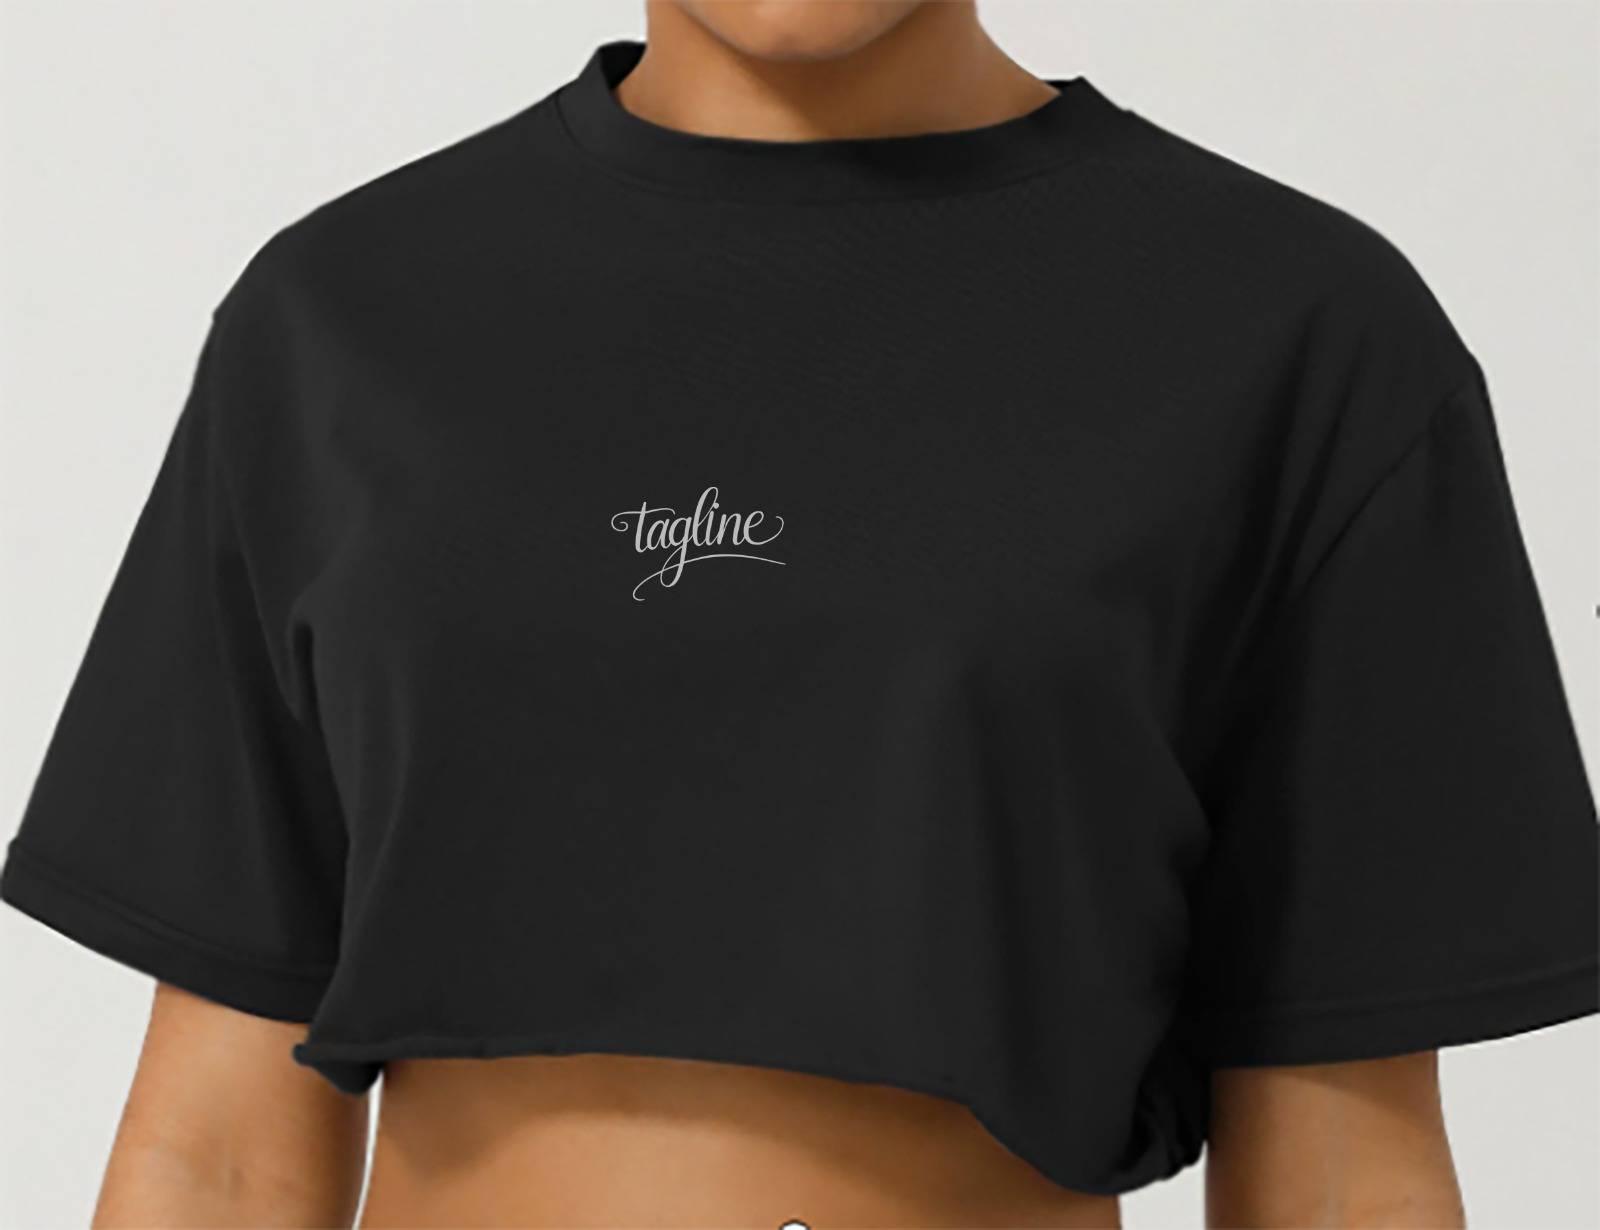
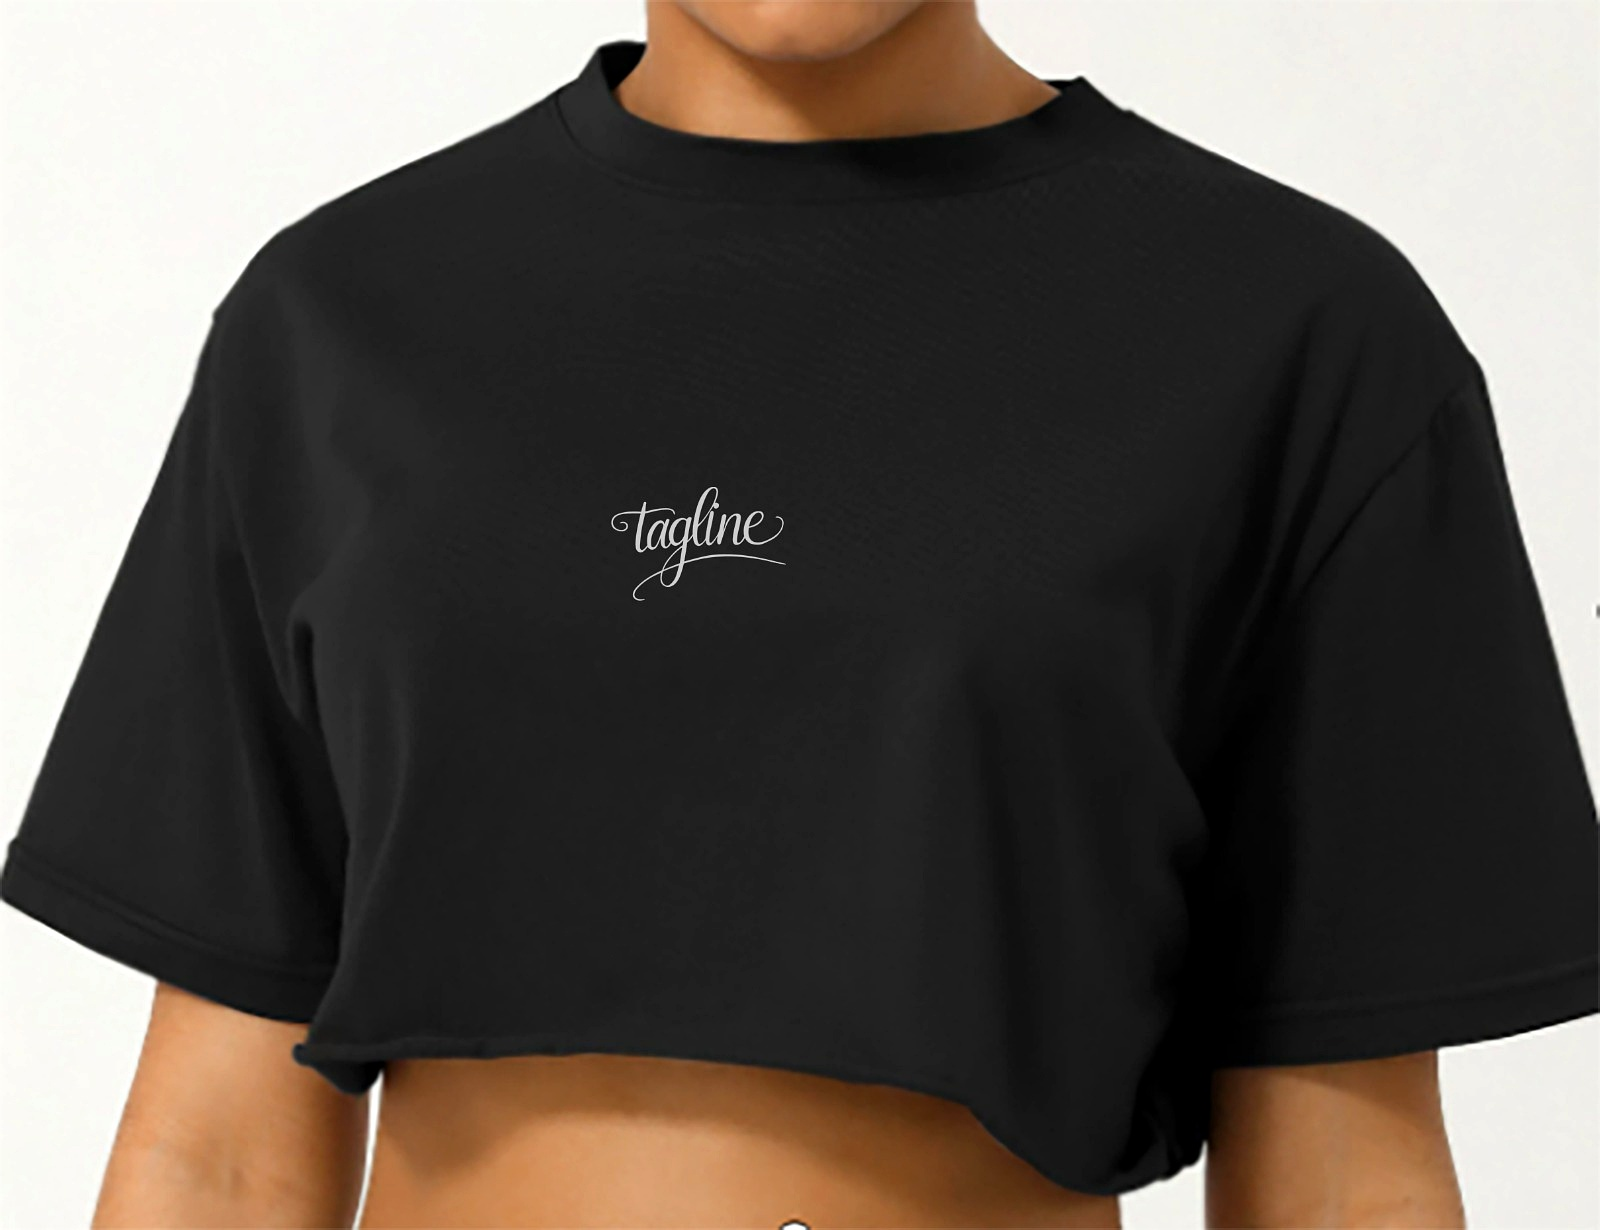
Add batch 3 products with enhanced images and 3 new product lines
- 3-D Embroidery T-Shirt: local images, 3 colors (charcoal/white/black)
- Men's Compression Shirt: local images, 5 colors (black/brown/charcoal/navy/silver)
- Women's Sports Bra: local images, 5 colors (pink/maroon/black/navy/taupe)
- Women's Gym Shorts: local images, 10 colors + XS size
- NEW Women's Zip-up Jacket: 6 colors (cream/teal/slate/dark-gray/navy/brown)
- NEW Women's Open Back Top: light blue
- NEW Women's Cargo Pants: black/navy
- Updated Box'e Tees and Crop Tees with enhanced photos
- All images enhanced (brightness, contrast, sharpness) via Pillow

https://claude.ai/code/session_01QrY5E4koCQkfcW9uaLuUqM

diff --git a/shop.html b/shop.html
@@ -1107,6 +1107,7 @@ const CM = {
   'brown':'#8B6340','brown-1':'#8B6340','brown-2':'#8B5E3C','off-brown':'#8B6F52',
   'navy':'#1E3A8A','slate':'#708090','maroon':'#800000','blue':'#2563EB',
   'pink':'#EC4899',
+  'charcoal':'#36454F','taupe':'#B5A397','beige':'#F5F5DC','sky-blue':'#87CEEB',
 };
 const gc = k => CM[k] || '#888';
 
@@ -1136,6 +1137,24 @@ const PRODUCTS = [
     sizes:['S','M','L','XL']
   },
   {
+    handle:'womens-zipup-jacket',title:"Women's Zip-up Jacket",
+    desc:'Form-fit athletic jacket · Thumbhole cuffs · 6 colors',price:55,badge:'New',
+    cats:['all','womens','jackets'],
+    img:'images/products/womens-zipup-jacket-cream.jpg',
+    colors:['cream','teal','slate','dark-gray','navy','brown'],
+    imgs:{cream:'images/products/womens-zipup-jacket-cream.jpg',teal:'images/products/womens-zipup-jacket-teal.jpg',slate:'images/products/womens-zipup-jacket-slate.jpg','dark-gray':'images/products/womens-zipup-jacket-dark-gray.jpg',navy:'images/products/womens-zipup-jacket-navy.jpg',brown:'images/products/womens-zipup-jacket-brown.jpg'},
+    sizes:['S','M','L','XL']
+  },
+  {
+    handle:'womens-open-back-top',title:"Women's Open Back Top",
+    desc:'Halter neck · V-front · Athletic fit',price:32,badge:'New',noCustom:true,
+    cats:['all','womens','tops'],
+    img:'images/products/womens-open-back-top-blue.jpg',
+    colors:['blue'],
+    imgs:{blue:'images/products/womens-open-back-top-blue.jpg'},
+    sizes:['S','M','L','XL']
+  },
+  {
     handle:'untitled-nov4_20-32',title:"Women's Sweatshirt",
     desc:'Form-fit zip-up · 6 colors · Thumbhole cuffs',price:45,badge:'',
     cats:['all','womens','hoodies'],
@@ -1155,10 +1174,11 @@ const PRODUCTS = [
   },
   {
     handle:'3-d-embroidery-t-shirt',title:'3-D Embroidery T-Shirt',
-    desc:'100% cotton · Heavyweight oversized',price:30,badge:'',
+    desc:'100% cotton · Heavyweight oversized · 3D embroidered',price:30,badge:'',
     cats:['all','tops','mens','womens'],
-    img:'https://cdn.shopify.com/s/files/1/0697/8365/0480/files/rn-image_picker_lib_temp_caac77bf-a368-4c9f-8dba-f96b475ed42c.jpg?v=1775534730',
-    colors:['black','white-1'],
+    img:'images/products/3d-embroidery-tee-charcoal.jpg',
+    colors:['charcoal','white','black'],
+    imgs:{charcoal:'images/products/3d-embroidery-tee-charcoal.jpg',white:'images/products/3d-embroidery-tee-white.jpg',black:'images/products/3d-embroidery-tee-black.jpg'},
     sizes:['S','M','L','XL']
   },
   {
@@ -1179,11 +1199,12 @@ const PRODUCTS = [
     sizes:['S','M','L','XL']
   },
   {
-    handle:'mens-gym-shirt',title:"Men's Gym Shirt",
-    desc:'True to size · 95% polyamide 5% elastane',price:30,badge:'',
+    handle:'mens-gym-shirt',title:"Men's Compression Shirt",
+    desc:'95% polyamide 5% elastane · Compression fit · 5 colors',price:30,badge:'',
     cats:['all','tops','mens'],
-    img:'https://cdn.shopify.com/s/files/1/0697/8365/0480/files/rn-image_picker_lib_temp_65a0576e-dbba-443f-a04a-5d91f6d91d20.jpg?v=1775552279',
-    colors:['navy-blue','black','milk-white','off-brown','grey'],
+    img:'images/products/mens-compression-shirt-black.jpg',
+    colors:['black','brown','charcoal','navy','silver'],
+    imgs:{black:'images/products/mens-compression-shirt-black.jpg',brown:'images/products/mens-compression-shirt-brown.jpg',charcoal:'images/products/mens-compression-shirt-charcoal.jpg',navy:'images/products/mens-compression-shirt-navy.jpg',silver:'images/products/mens-compression-shirt-silver.jpg'},
     sizes:['S','M','L','XL']
   },
   {
@@ -1227,11 +1248,12 @@ const PRODUCTS = [
     sizes:['S','M','L','XL']
   },
   {
-    handle:'womens-sport-bra',title:"Women's Sport Bra",
-    desc:'95% polyamide 5% elastane · Medium support',price:30,badge:'',noCustom:true,
+    handle:'womens-sport-bra',title:"Women's Sports Bra",
+    desc:'95% polyamide 5% elastane · Halter neck · Medium support',price:30,badge:'',noCustom:true,
     cats:['all','womens','tops'],
-    img:'https://cdn.shopify.com/s/files/1/0697/8365/0480/files/rn-image_picker_lib_temp_70148a65-ac5c-4e67-b9c8-10d2ad789c1c.jpg?v=1775552279',
-    colors:['black','khaki','wine-red','pink-1','purple-1'],
+    img:'images/products/womens-sports-bra-pink.jpg',
+    colors:['pink','maroon','black','navy','taupe'],
+    imgs:{pink:'images/products/womens-sports-bra-pink.jpg',maroon:'images/products/womens-sports-bra-maroon.jpg',black:'images/products/womens-sports-bra-black.jpg',navy:'images/products/womens-sports-bra-navy.jpg',taupe:'images/products/womens-sports-bra-taupe.jpg'},
     sizes:['S','M','L','XL']
   },
   {
@@ -1244,10 +1266,11 @@ const PRODUCTS = [
   },
   {
     handle:'womens-gym-shorts',title:"Women's Gym Shorts",
-    desc:'90% polyamide 10% elastane · High waist',price:20,badge:'',noCustom:true,
+    desc:'90% polyamide 10% elastane · High-waist biker shorts · 10 colors',price:20,badge:'',noCustom:true,
     cats:['all','womens','bottoms'],
-    img:'https://cdn.shopify.com/s/files/1/0697/8365/0480/files/rn-image_picker_lib_temp_1210f229-9c09-47f0-9203-2aa876bb70fb.jpg?v=1775552279',
-    colors:['wine-red','pink-1','warm-tan','gray','hard-blue','khaki','purple-1'],
+    img:'images/products/womens-gym-shorts-maroon.jpg',
+    colors:['maroon','black','navy','taupe','teal','dark-gray','pink','light-blue','beige','white'],
+    imgs:{maroon:'images/products/womens-gym-shorts-maroon.jpg',black:'images/products/womens-gym-shorts-black.jpg',navy:'images/products/womens-gym-shorts-navy.jpg',taupe:'images/products/womens-gym-shorts-taupe.jpg',teal:'images/products/womens-gym-shorts-teal.jpg','dark-gray':'images/products/womens-gym-shorts-dark-gray.jpg',pink:'images/products/womens-gym-shorts-pink.jpg','light-blue':'images/products/womens-gym-shorts-light-blue.jpg',beige:'images/products/womens-gym-shorts-beige.jpg',white:'images/products/womens-gym-shorts-white.jpg'},
     sizes:['XS','S','M','L','XL']
   },
   {
@@ -1298,6 +1321,15 @@ const PRODUCTS = [
     cats:['all','mens','bottoms'],
     img:'https://cdn.shopify.com/s/files/1/0697/8365/0480/files/rn-image_picker_lib_temp_8db61751-179f-4792-94db-fa33145c04eb.jpg?v=1768915828',
     colors:['blue-1','light-grey','gray'],
+    sizes:['S','M','L','XL']
+  },
+  {
+    handle:'womens-cargo-pants',title:"Women's Cargo Pants",
+    desc:"Wide-leg cargo · Elastic waist · TAGLINE logo",price:55,badge:'New',
+    cats:['all','womens','bottoms'],
+    img:'images/products/womens-cargo-pants-black.jpg',
+    colors:['black','navy'],
+    imgs:{black:'images/products/womens-cargo-pants-black.jpg',navy:'images/products/womens-cargo-pants-navy.jpg'},
     sizes:['S','M','L','XL']
   },
   {
